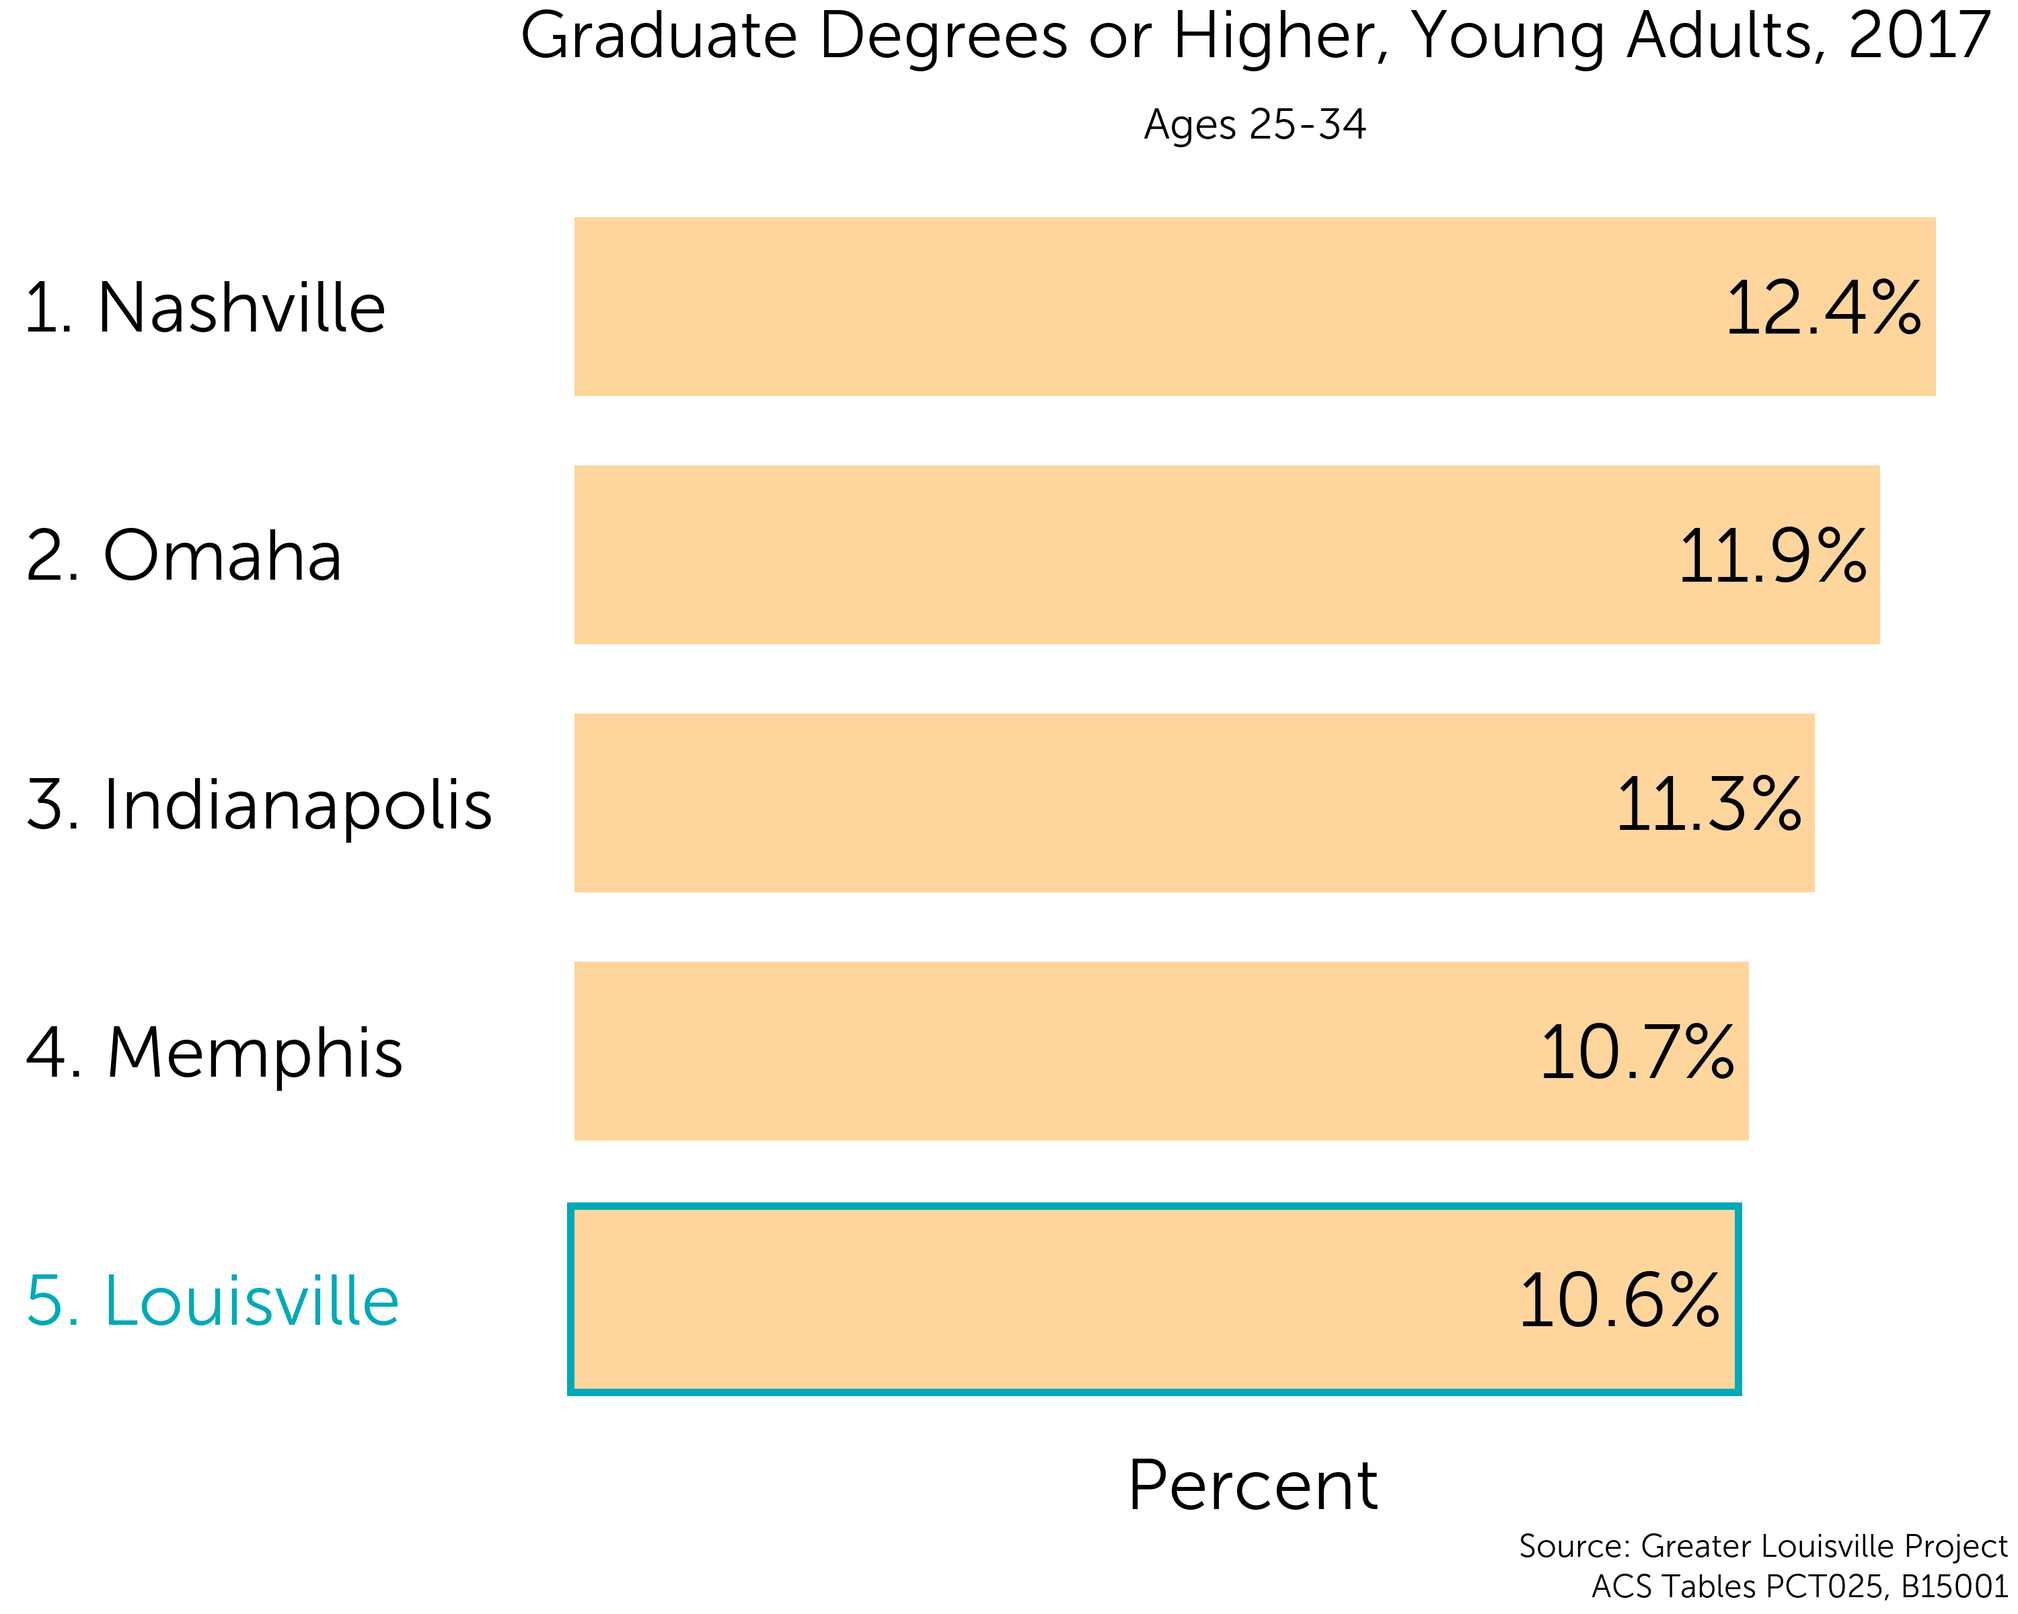
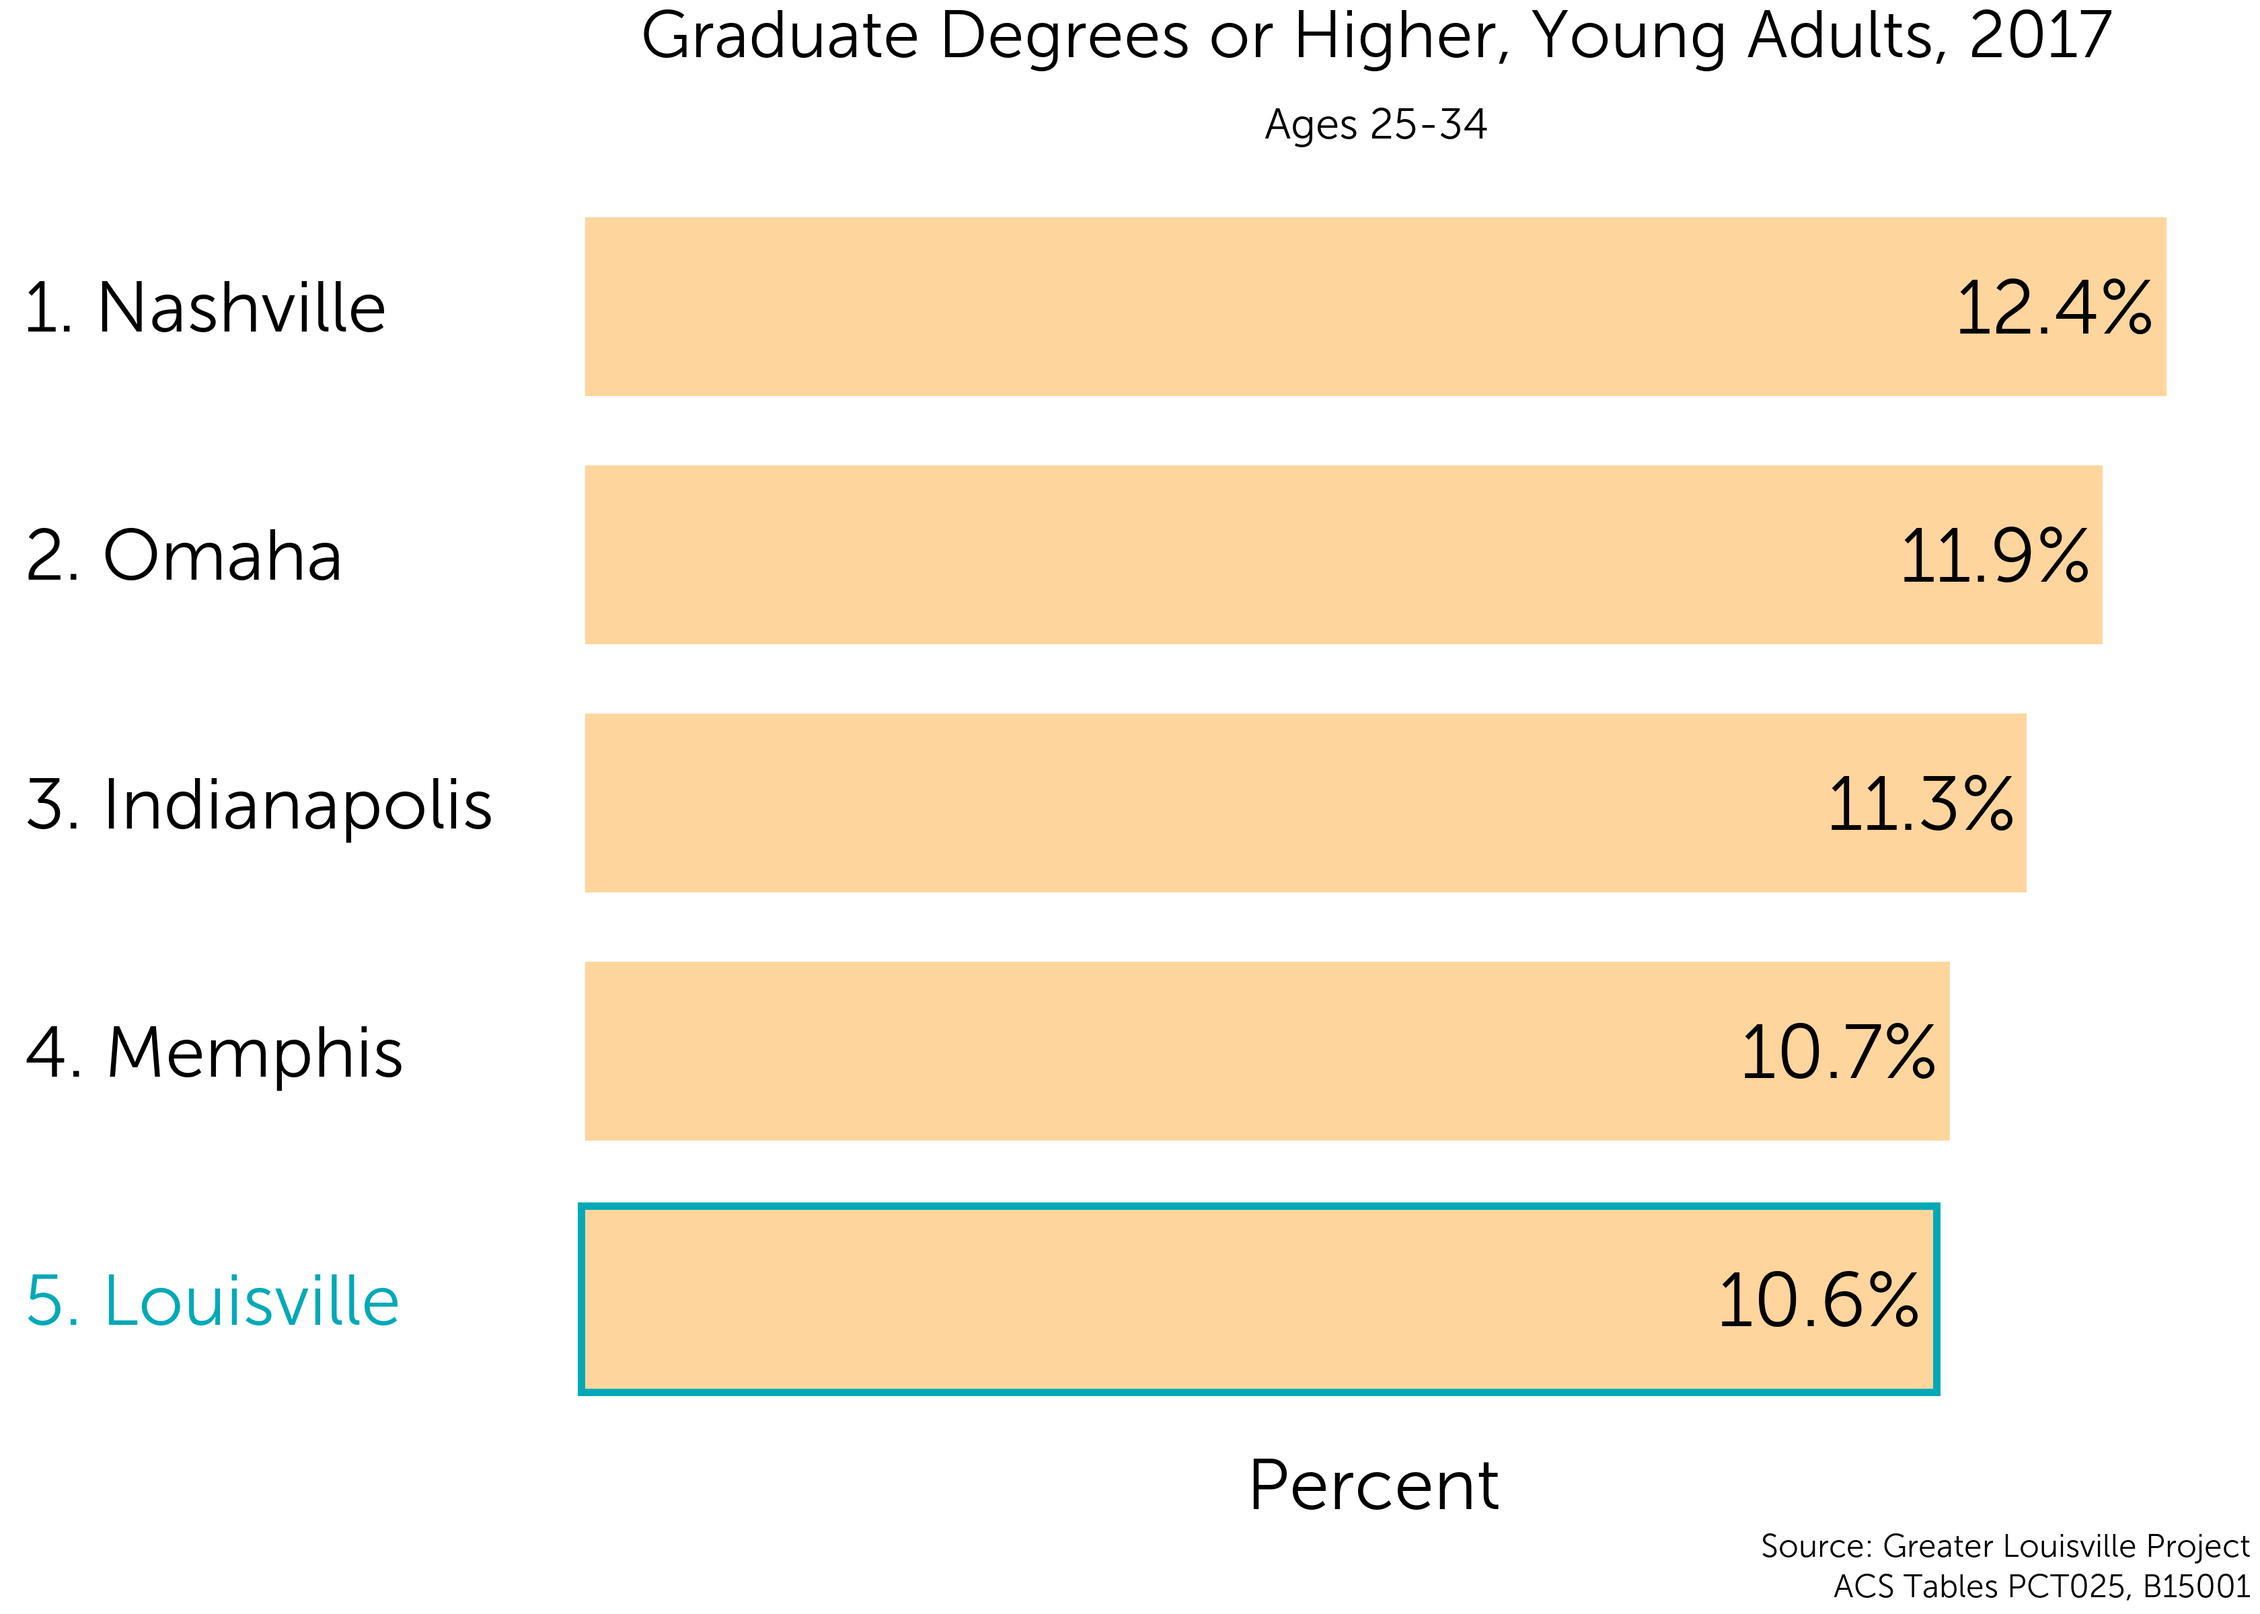
Updates and corrections

diff --git a/docs/education.html b/docs/education.html
@@ -380,7 +380,6 @@ body{
 }
 </style>
 <p>The education section includes some JCPS data from the Kentucky Department of Education. JCPS data is not comparable to other peer cities, so the graphs included for those metrics compare JCPS to other Kentucky school districts.</p>
-<p><br></p>
 <div id="early-care-and-education" class="section level1">
 <h1>Early Care and Education</h1>
 <p><br></p>
@@ -390,13 +389,15 @@ body{
 <h3>Trendline</h3>
 <p><img src="images/kready_trendline.png" width="1680" /></p>
 <p><br></p>
+<hr />
+<p><br></p>
 </div>
 </div>
 <div id="children-ages-3-4-enrolled-in-preschool" class="section level2 tabset">
 <h2>Children Ages 3 &amp; 4 Enrolled in Preschool</h2>
 <div id="ranking" class="section level3">
 <h3>Ranking</h3>
-<p><img src="images/enrolled_3_4_ranking.png" width="1500" /></p>
+<p><img src="images/enrolled_3_4_ranking.png" width="1680" /></p>
 <p><br></p>
 <hr />
 <p><br></p>
@@ -419,6 +420,8 @@ body{
 <h3>Trendline</h3>
 <p><img src="images/ccr_trendline.png" width="1680" /></p>
 <p><br></p>
+<hr />
+<p><br></p>
 </div>
 </div>
 <div id="graduation-rate" class="section level2 tabset">
@@ -427,6 +430,8 @@ body{
 <h3>Trendline</h3>
 <p><img src="images/graduation_trendline.png" width="1680" /></p>
 <p><br></p>
+<hr />
+<p><br></p>
 </div>
 </div>
 <div id="naep-scores" class="section level2 tabset">
@@ -434,10 +439,15 @@ body{
 <div id="math" class="section level3">
 <h3>Math</h3>
 <p><img src="images/naep_math_trendline.png" width="1680" /></p>
+<p><br></p>
+<hr />
+<p><br></p>
 </div>
 <div id="reading" class="section level3">
 <h3>Reading</h3>
 <p><img src="images/naep_reading_trendline.png" width="1680" /></p>
+<p><br></p>
+<hr />
 <p><br></p>
 </div>
 </div>
@@ -461,22 +471,33 @@ body{
 <h3>Working-age (25-64)</h3>
 <div id="ranking-1" class="section level4">
 <h4>Ranking</h4>
-<p><img src="images/bach_plus_ranking.png" width="1500" /></p>
+<p><img src="images/bach_plus_ranking.png" width="1680" /></p>
+<p><br></p>
+<hr />
+<p><br></p>
 </div>
 <div id="trendline-5" class="section level4">
 <h4>Trendline</h4>
 <p><img src="images/bach_plus_trendline.png" width="1680" /></p>
+<p><br></p>
+<hr />
+<p><br></p>
 </div>
 </div>
 <div id="young-adult-25-34" class="section level3 tabset">
 <h3>Young Adult (25-34)</h3>
 <div id="ranking-2" class="section level4">
 <h4>Ranking</h4>
-<p><img src="images/bach_plus_young_ranking.png" width="1500" /></p>
+<p><img src="images/bach_plus_young_ranking.png" width="1680" /></p>
+<p><br></p>
+<hr />
+<p><br></p>
 </div>
 <div id="trendline-6" class="section level4">
 <h4>Trendline</h4>
 <p><img src="images/bach_plus_young_trendline.png" width="1680" /></p>
+<p><br></p>
+<hr />
 <p><br></p>
 </div>
 </div>
@@ -487,22 +508,33 @@ body{
 <h3>Working-age (25-64)</h3>
 <div id="ranking-3" class="section level4">
 <h4>Ranking</h4>
-<p><img src="images/assoc_plus_ranking.png" width="1500" /></p>
+<p><img src="images/assoc_plus_ranking.png" width="1680" /></p>
+<p><br></p>
+<hr />
+<p><br></p>
 </div>
 <div id="trendline-7" class="section level4">
 <h4>Trendline</h4>
 <p><img src="images/assoc_plus_trendline.png" width="1680" /></p>
+<p><br></p>
+<hr />
+<p><br></p>
 </div>
 </div>
 <div id="young-adult-25-34-1" class="section level3 tabset">
 <h3>Young Adult (25-34)</h3>
 <div id="ranking-4" class="section level4">
 <h4>Ranking</h4>
-<p><img src="images/assoc_plus_young_ranking.png" width="1500" /></p>
+<p><img src="images/assoc_plus_young_ranking.png" width="1680" /></p>
+<p><br></p>
+<hr />
+<p><br></p>
 </div>
 <div id="trendline-8" class="section level4">
 <h4>Trendline</h4>
 <p><img src="images/assoc_plus_young_trendline.png" width="1680" /></p>
+<p><br></p>
+<hr />
 <p><br></p>
 </div>
 </div>
@@ -513,7 +545,7 @@ body{
 <h3>Working-age (25-64)</h3>
 <div id="ranking-5" class="section level4">
 <h4>Ranking</h4>
-<p><img src="images/grad_ranking.png" width="1500" /></p>
+<p><img src="images/grad_ranking.png" width="1680" /></p>
 </div>
 <div id="trendline-9" class="section level4">
 <h4>Trendline</h4>
@@ -524,7 +556,7 @@ body{
 <h3>Young Adult (25-34)</h3>
 <div id="ranking-6" class="section level4">
 <h4>Ranking</h4>
-<p><img src="images/grad_young_ranking.png" width="1500" /></p>
+<p><img src="images/grad_young_ranking.png" width="1680" /></p>
 </div>
 <div id="trendline-10" class="section level4">
 <h4>Trendline</h4>

diff --git a/docs/index.html b/docs/index.html
@@ -385,7 +385,7 @@ body{
 <h2>Tab example</h2>
 <div id="graph-1" class="section level3">
 <h3>Graph 1</h3>
-<p><img src="images/bach_plus_ranking.png" width="1500" /></p>
+<p><img src="images/bach_plus_ranking.png" width="1680" /></p>
 </div>
 <div id="graph-2" class="section level3">
 <h3>Graph 2</h3>
